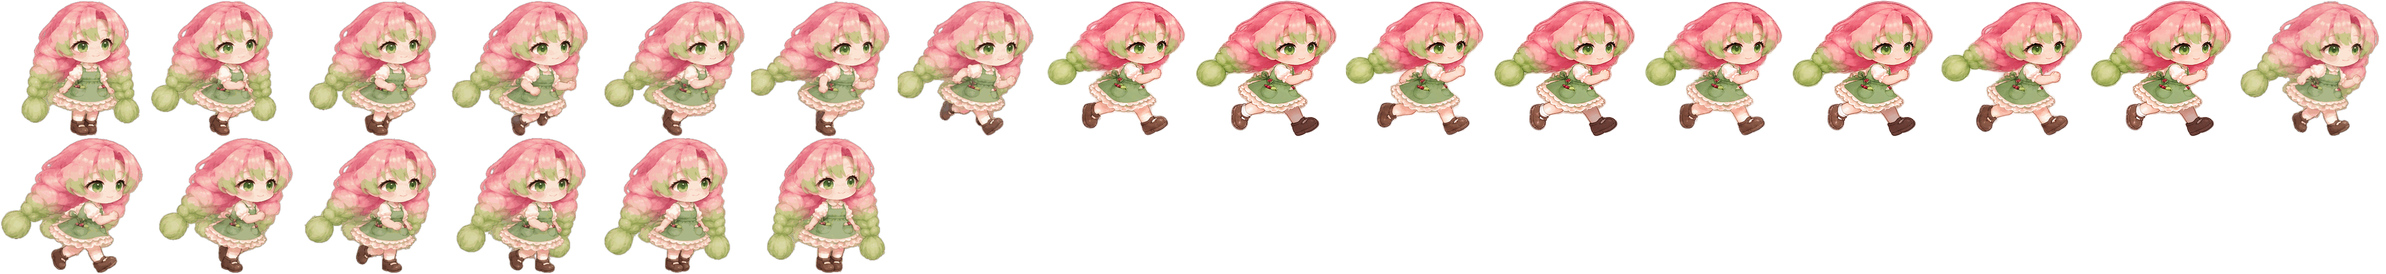
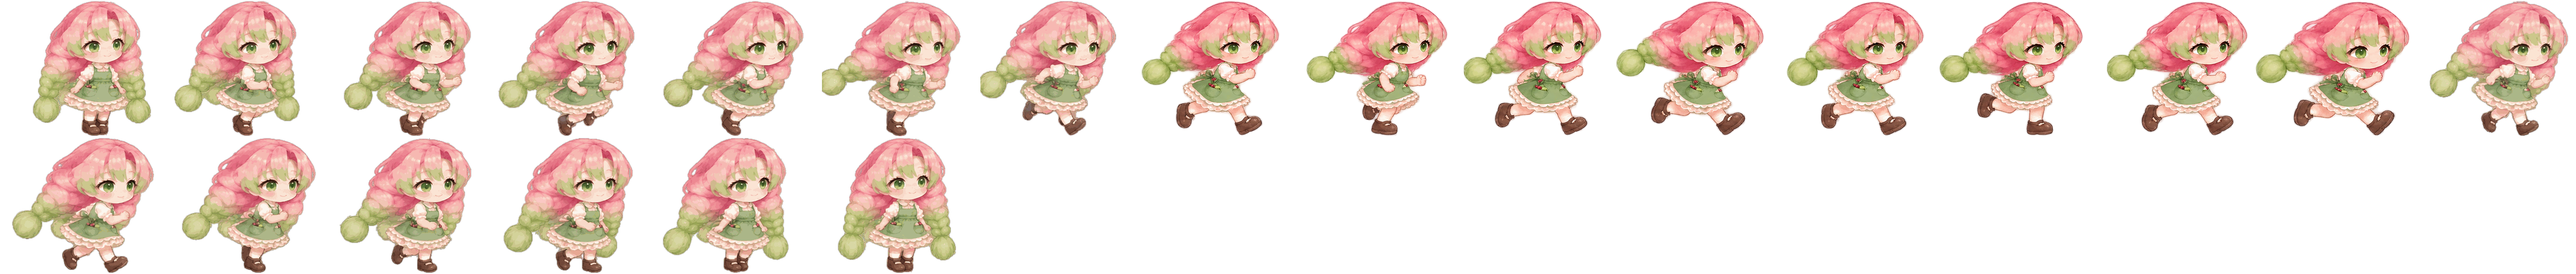
Unify character animation scale and palette

Changed region(s): [[0.0, 0.0, 1.0, 1.0]]

diff --git a/scripts/make_stage_art.py b/scripts/make_stage_art.py
@@ -45,7 +45,7 @@ EASELS = [(282, 498, 381, 604), (433, 498, 532, 604), (580, 498, 682, 604), (737
 # World x is 0 at the stall's centre; "bottom" is the screen y the object stands on, "height" its drawn height.
 LAYOUT = {"objects": [{"image": "stall", "x": 0, "bottom": 500, "height": 470},
                       {"image": "shelter", "x": 1500, "bottom": 520, "height": 420}],
-          "ground": 545, "girl_height": 200, "girl_start": 330, "buyer_scale": 2.25, "npc_height": 190}
+          "ground": 545, "girl_height": 200, "girl_start": 330, "buyer_scale": 3.125, "npc_height": 200}
 
 
 def keyed(frame: Image.Image, color: tuple[int, int, int]) -> Image.Image:
@@ -79,6 +79,15 @@ def soft_edge(frame: Image.Image) -> Image.Image:
     a = np.array(frame)
     alpha = (ndimage.gaussian_filter(a[..., 3] / 255.0, 0.6) * 255).astype(np.uint8)
     return Image.fromarray(np.dstack([a[..., :3], alpha]), "RGBA")
+
+
+def grade_girl_idle(frame: Image.Image) -> Image.Image:
+    """Match the pale idle source to the deeper, more saturated walking art without redrawing it."""
+    a = np.array(frame).astype(float)
+    rgb = a[..., :3]
+    gray = rgb.mean(-1, keepdims=True)
+    a[..., :3] = np.clip((gray + (rgb - gray) * 1.20) * 0.943, 0, 255)
+    return Image.fromarray(a.astype(np.uint8), "RGBA")
 
 
 def gif_frames(path: Path) -> tuple[list[Image.Image], list[int]]:
@@ -168,16 +177,11 @@ def fitted_sheet(frames: list[Image.Image], name: str, ms: list[int], heights: l
 
 def girl() -> None:
     idle, idle_ms = gif_frames(SRC / "girl_idle.gif")
-    idle = [keyed(f, idle[0].convert("RGB").getpixel((1, 1))) for f in idle]
+    idle = [grade_girl_idle(keyed(f, idle[0].convert("RGB").getpixel((1, 1)))) for f in idle]
     old_run, old_ms = gif_frames(SRC / "girl_run.gif")
     cycle = grid_frames(SRC / "girl_run_cycle_v2.png", 4, 2)
-    opposite = main_component(Image.open(SRC / "girl_run_pose_b.png"))
-    # The sheet's even poses carry the near leg forward; every odd pose uses the separately edited reverse
-    # layer order (near white-socked leg back, shaded far leg forward), so anatomical legs truly alternate.
-    for i in range(1, len(cycle), 2):
-        cycle[i] = opposite.copy()
-    # Keep the hand-drawn start/stop transitions, but replace the ambiguous middle with a readable cycle in
-    # which the front leg changes every half-stride. Every pose is fitted to the same height as idle.
+    # Keep the eight jointly authored frames together.  A separately generated replacement drifts in
+    # palette, brushwork, anatomy and leg length even when its pose looks plausible in isolation.
     run = [*old_run[:7], *cycle, *old_run[42:]]
     run_ms = [*old_ms[:7], *([90] * len(cycle)), *old_ms[42:]]
     run = [soft_edge(f) for f in run]

diff --git a/docs/art.md b/docs/art.md
@@ -1,0 +1,155 @@
+# Character art spec
+
+What to produce so buyers (and later other characters) can be animated in the game. The format
+follows the one the CS529 projects already use for the monkey, so the same sheets work in both.
+
+## The reference: the CS529 monkey (measured)
+
+| | Idle | Jump | Walk |
+|---|---|---|---|
+| File | `MonkeyIdle.png` | `MonkeyJump.png` | `MonkeyWalk.png` |
+| Image | 32×32 | 32×32 | 96×96 |
+| Grid (`LoadTexture(cols, rows, …)`) | 1×1 | 1×1 | 3×3 |
+| Frames (`Play(count, delay, loop)`) | 1, 0 s, no loop | 1, 0 s, no loop | **8** of the 9 cells, 0.05 s (20 fps), loop |
+| Mesh UV size | 1 × 1 | 1 × 1 | 1/3 × 1/3 |
+
+- One PNG per animation state; each is a grid of equal cells; frame *i* is at column `i % cols`,
+  row `i / cols` (row-major, top-left first); trailing cells may be empty (the walk's 9th).
+- Indexed-color (palette) PNG with a transparent color: pixel art.
+- Drawn at `Scale 128` from a 32 px cell: an exact 4× enlargement, so pixels stay square.
+- The mesh's UV size must equal `1/cols × 1/rows` of the sheet, or frames bleed into each other.
+
+## What the game needs
+
+Buyers sit in the cards on the left of the selling screen. Their animation should follow what the
+round already reports for each buyer, so nothing new has to be invented on the server:
+
+| State | When (server event) | Frames | Frame time | Loop |
+|---|---|---|---|---|
+| `idle` | waiting | 4 | 0.20 s | yes |
+| `talk` | asks a question, or a reply line is theirs | 4 | 0.12 s | yes, while their line is newest |
+| `happy` | reaction with Δ > 0 | 6 | 0.08 s | once, then `idle` |
+| `unhappy` | reaction with Δ < 0 | 6 | 0.08 s | once, then `idle` |
+| `leave` | interest hits the walk-away limit | 8 | 0.05 s | once, then hidden |
+| `win` | the player sells to them | 6 | 0.08 s | once, hold the last frame |
+
+Per character: **6 PNG sheets**. The 30 buyer names share a smaller set of looks (a name maps to a
+look by hash): 8 looks × 6 states = **48 sheets**.
+
+### File format
+
+- **PNG, 8-bit RGBA** (straight alpha, not premultiplied), sRGB. Indexed PNGs with a transparent
+  color like the monkey's also load (they are converted to RGBA), but RGBA is the safer default.
+- **Cell 64×64 px** (the cards are about 120 px tall; 64 px drawn at 2× = 128 px). Every state of
+  every look uses the same cell size and the same **anchor: bottom center (32, 62)**, so states can
+  be swapped without the character jumping.
+- **Grid**: one row per sheet (`frames × 1`, e.g. 256×64 for 4 frames). That avoids the empty-cell
+  bookkeeping; a CS529-style square grid also works if the metadata says how many frames are used.
+- **1 px transparent margin inside each cell**, so no frame's pixels touch the next cell.
+- **Facing right** (toward the conversation). Mirroring is a negative x scale, so left-facing art isn't needed.
+- Pixel art, nearest-neighbor scaling only, integer zoom (1×, 2×, 3×).
+
+### Metadata (one JSON per look)
+
+The numbers `LoadTexture(cols, rows, file)` and `Play(count, delay, loop)` take, in a file instead of code:
+
+```json
+{
+  "look": "look01",
+  "cell": [64, 64],
+  "anchor": [32, 62],
+  "states": {
+    "idle":    { "file": "look01_idle.png",    "cols": 4, "rows": 1, "frames": 4, "frame_time": 0.20, "loop": true },
+    "talk":    { "file": "look01_talk.png",    "cols": 4, "rows": 1, "frames": 4, "frame_time": 0.12, "loop": true },
+    "happy":   { "file": "look01_happy.png",   "cols": 6, "rows": 1, "frames": 6, "frame_time": 0.08, "loop": false },
+    "unhappy": { "file": "look01_unhappy.png", "cols": 6, "rows": 1, "frames": 6, "frame_time": 0.08, "loop": false },
+    "leave":   { "file": "look01_leave.png",   "cols": 8, "rows": 1, "frames": 8, "frame_time": 0.05, "loop": false },
+    "win":     { "file": "look01_win.png",     "cols": 6, "rows": 1, "frames": 6, "frame_time": 0.08, "loop": false }
+  }
+}
+```
+
+Files: `game/assets/characters/<look>/<look>_<state>.png` + `<look>.json`.
+
+## If the art is generated (not drawn)
+
+Image generators produce one large, soft image at a time and are poor at keeping a character
+identical across frames. What works better:
+
+1. Generate **one** clean reference per look (front-ish, facing right, plain background).
+2. Turn it into pixel art at the cell size: crop, scale down with nearest neighbor to 64 px tall,
+   reduce to a small palette (≤ 32 colors), make the background transparent.
+3. Make the frames from that one image: hand edits in a pixel editor (Aseprite, Piskel), or let
+   the engine animate a single frame (bob for `idle`, squash for `talk`, a hop for `happy`, a
+   shake for `unhappy`, slide out for `leave`). A single frame per state plus engine motion is
+   the cheapest version that still reads clearly.
+
+## In the engine
+
+Done (2026-10-04):
+
+- `Backend::LoadTexture(path)` / `TextureSize` / `DrawSprite(texture, UVRect, topLeft, size, alpha)`
+  in the OpenGL, DGL and null backends. The null backend really decodes the PNG, so a headless run
+  (and CI's end-to-end test) fails on missing or broken art.
+- `sa::SpriteSheet` (frame → cell UV, row-major, clamped to the frames in use) and `sa::Animation`
+  (`Play(count, frameTime, loop)`, as CS529's `Animation`), unit-tested in `engine/tests/sprite_test.cpp`
+  including the monkey's 3×3 / 8-frame walk.
+- Pixel art stays sharp: nearest-neighbour sampling and clamped edges (OpenGL), `DGL_TSM_POINT` /
+  `DGL_AM_CLAMP` (DGL), drawn at 1× (64 px) in the buyer cards.
+- `DrawSprite` takes an alpha, not a tint color: DGL mixes toward a tint where OpenGL would
+  multiply, and one meaning across backends matters more than tinting.
+- The server reports a `mood` per buyer (docs/protocol.md); `game/src/Characters.cpp` maps it to a
+  state, plays reactions once and settles back to idle, walks a leaving buyer off with a fade, and
+  picks a look per buyer from a stable hash of the name.
+
+`scripts/make_placeholder_art.py` draws stand-in sheets for 4 looks in exactly this format (each
+frame is drawn on its own cell and rejected if it reaches the 1 px margin), so real art replaces
+PNGs and nothing else.
+
+## The world and the girl
+
+### Non-negotiable animation consistency
+
+- Never generate or repaint one character keyframe independently and splice it into an existing animation.
+  Reject it if palette, value, brush texture, outline, anatomy, head/body ratio, leg length, boot size, or
+  rendering detail differs from the approved source set.
+- Idle, turn, walk-away, walk-toward, run and jump use one fixed on-screen figure height and one visual palette.
+  Moving along the screen's y axis must not scale a character, and changing state must never pop in size.
+- Create new motion only by editing or warping pixels from the approved source set, or replace the whole action
+  set with one jointly authored set. A separately generated replacement frame is not an acceptable fix.
+- Before committing, compare representative frames from every state in one contact sheet at identical height.
+  Reject the change if identity, value range, saturation, limb length, costume or rendering style shifts.
+
+Every screen is drawn in one world (`game/assets/stage/`), built from the owner's source art in `art/stage/` by
+`python scripts/make_stage_art.py`:
+
+| Source | Becomes | Notes |
+|---|---|---|
+| `background_strip.png` → `background_tile_crossfade.png` | `background.png` (720 high) | the strip's last 240 px cross-fade into its start, so it repeats without a seam; drawn as many times as the screen needs |
+| `stall_cloth.png` (on black) | `stall.png` + `stall.json` | `cloth` is where one draws: the 1240-unit canvas the game keeps strokes in is shown there |
+| `cat_shelter.png` | `shelter.png` + `shelter.json` | `easels` are the eight blank canvases, for adoptable cats later |
+| `girl_idle.gif` (12 frames on cream) | `girl_idle.png` + `.json` | front view, cut out of the cream |
+| `girl_run.gif` + `girl_run_cycle_v2.png` | `girl_run.png` + `.json` | original start/stop transitions plus the jointly authored eight-frame run cycle; every frame is fitted to the same figure height. Never insert a separately generated pose. |
+| `girl_walk.gif` (30 frames) | `girl_walk.png` + `.json` | `parts` away 0–11 (up the screen, from behind), turn 12–17, toward 18–29 (down, facing the camera); the turn plays backwards to turn away |
+| `npc_<n>.gif` (30 frames) | `npc_<n>.png` + `.json` | a painted buyer: `parts` away 0–11 (walking up, seen from behind), turn 12–17, toward 18–29 (walking off, facing the camera) |
+| `Nunito.ttf` (SIL OFL, `fonts/OFL.txt`) | `fonts/nunito.png` + `.txt` | white glyphs at six sizes, drawn in any color |
+
+Painted buyers (`Npc.h`): the n-th buyer of a round is `npc_n` while there are drawings, the rest stay pixel
+sprites. Each walks only a short distance up from the flowers at the bottom of the screen to their place in front
+of the stall (0.7 s apart, always at the same figure height) and stands there seen from behind; a buyer who loses interest
+turns and walks back out through the flowers. Their tag shows only while they stand there, and once they are
+gone. Add a buyer by dropping `npc_<n+1>.gif` into `art/stage/` and running the script.
+
+`layout.json` places things and is never overwritten by the script, so it can be tuned by hand: each object's
+image, world x of its centre (0 is the stall), the screen y it stands on (`bottom`) and its drawn `height`; the
+ground line, the girl's height and start, and the buyers' sprite scale.
+
+The girl (`Girl.h`) runs with ← →, walks up and down the screen with ↑ ↓ (turning round first when needed), and
+jumps with Space, except while a text field takes it (the AI field has focus, or an answer is being typed; a
+Space typed into an empty answer field is the jump, not a leading space). Every direction and action uses the
+same fixed figure height. There are no limits on where she may go yet. The camera stays put while she is in the middle of
+the screen and follows her past it. Faces (sheepish, angry, anxious;
+see `Stage.h`) are drawn only if `girl_<face>.png` exists; the old ones were in the previous drawing style.
+
+Painted art is sampled smoothly (`TextureFilter::Smooth`), so every sheet cell has a transparent border; the
+buyers' pixel art stays crisp (`TextureFilter::Pixel`).
